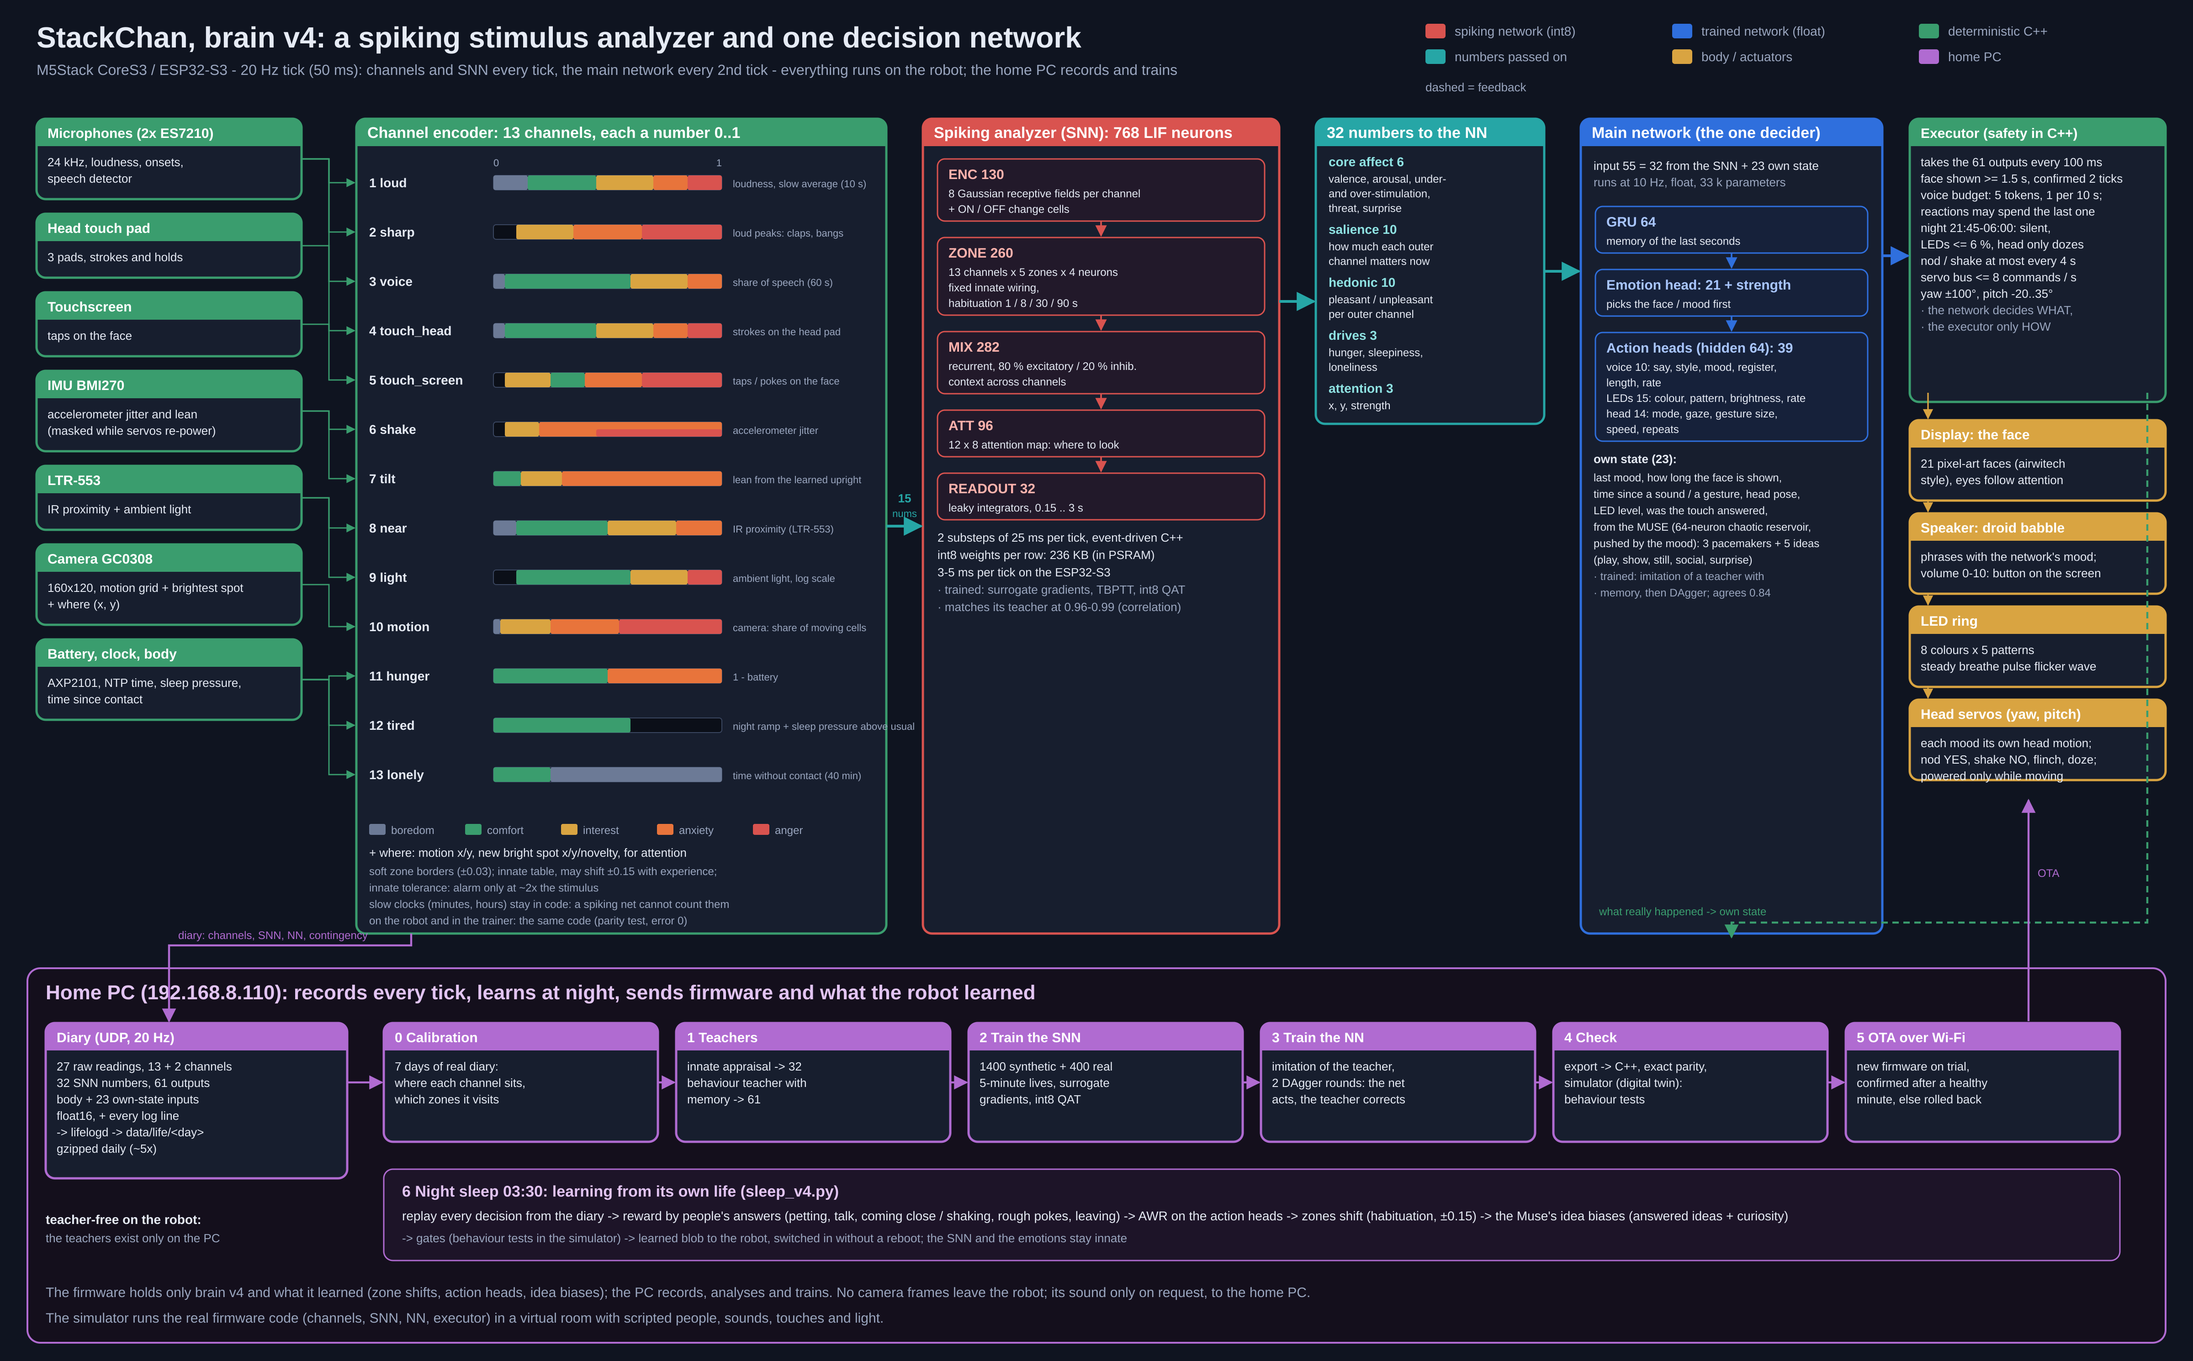
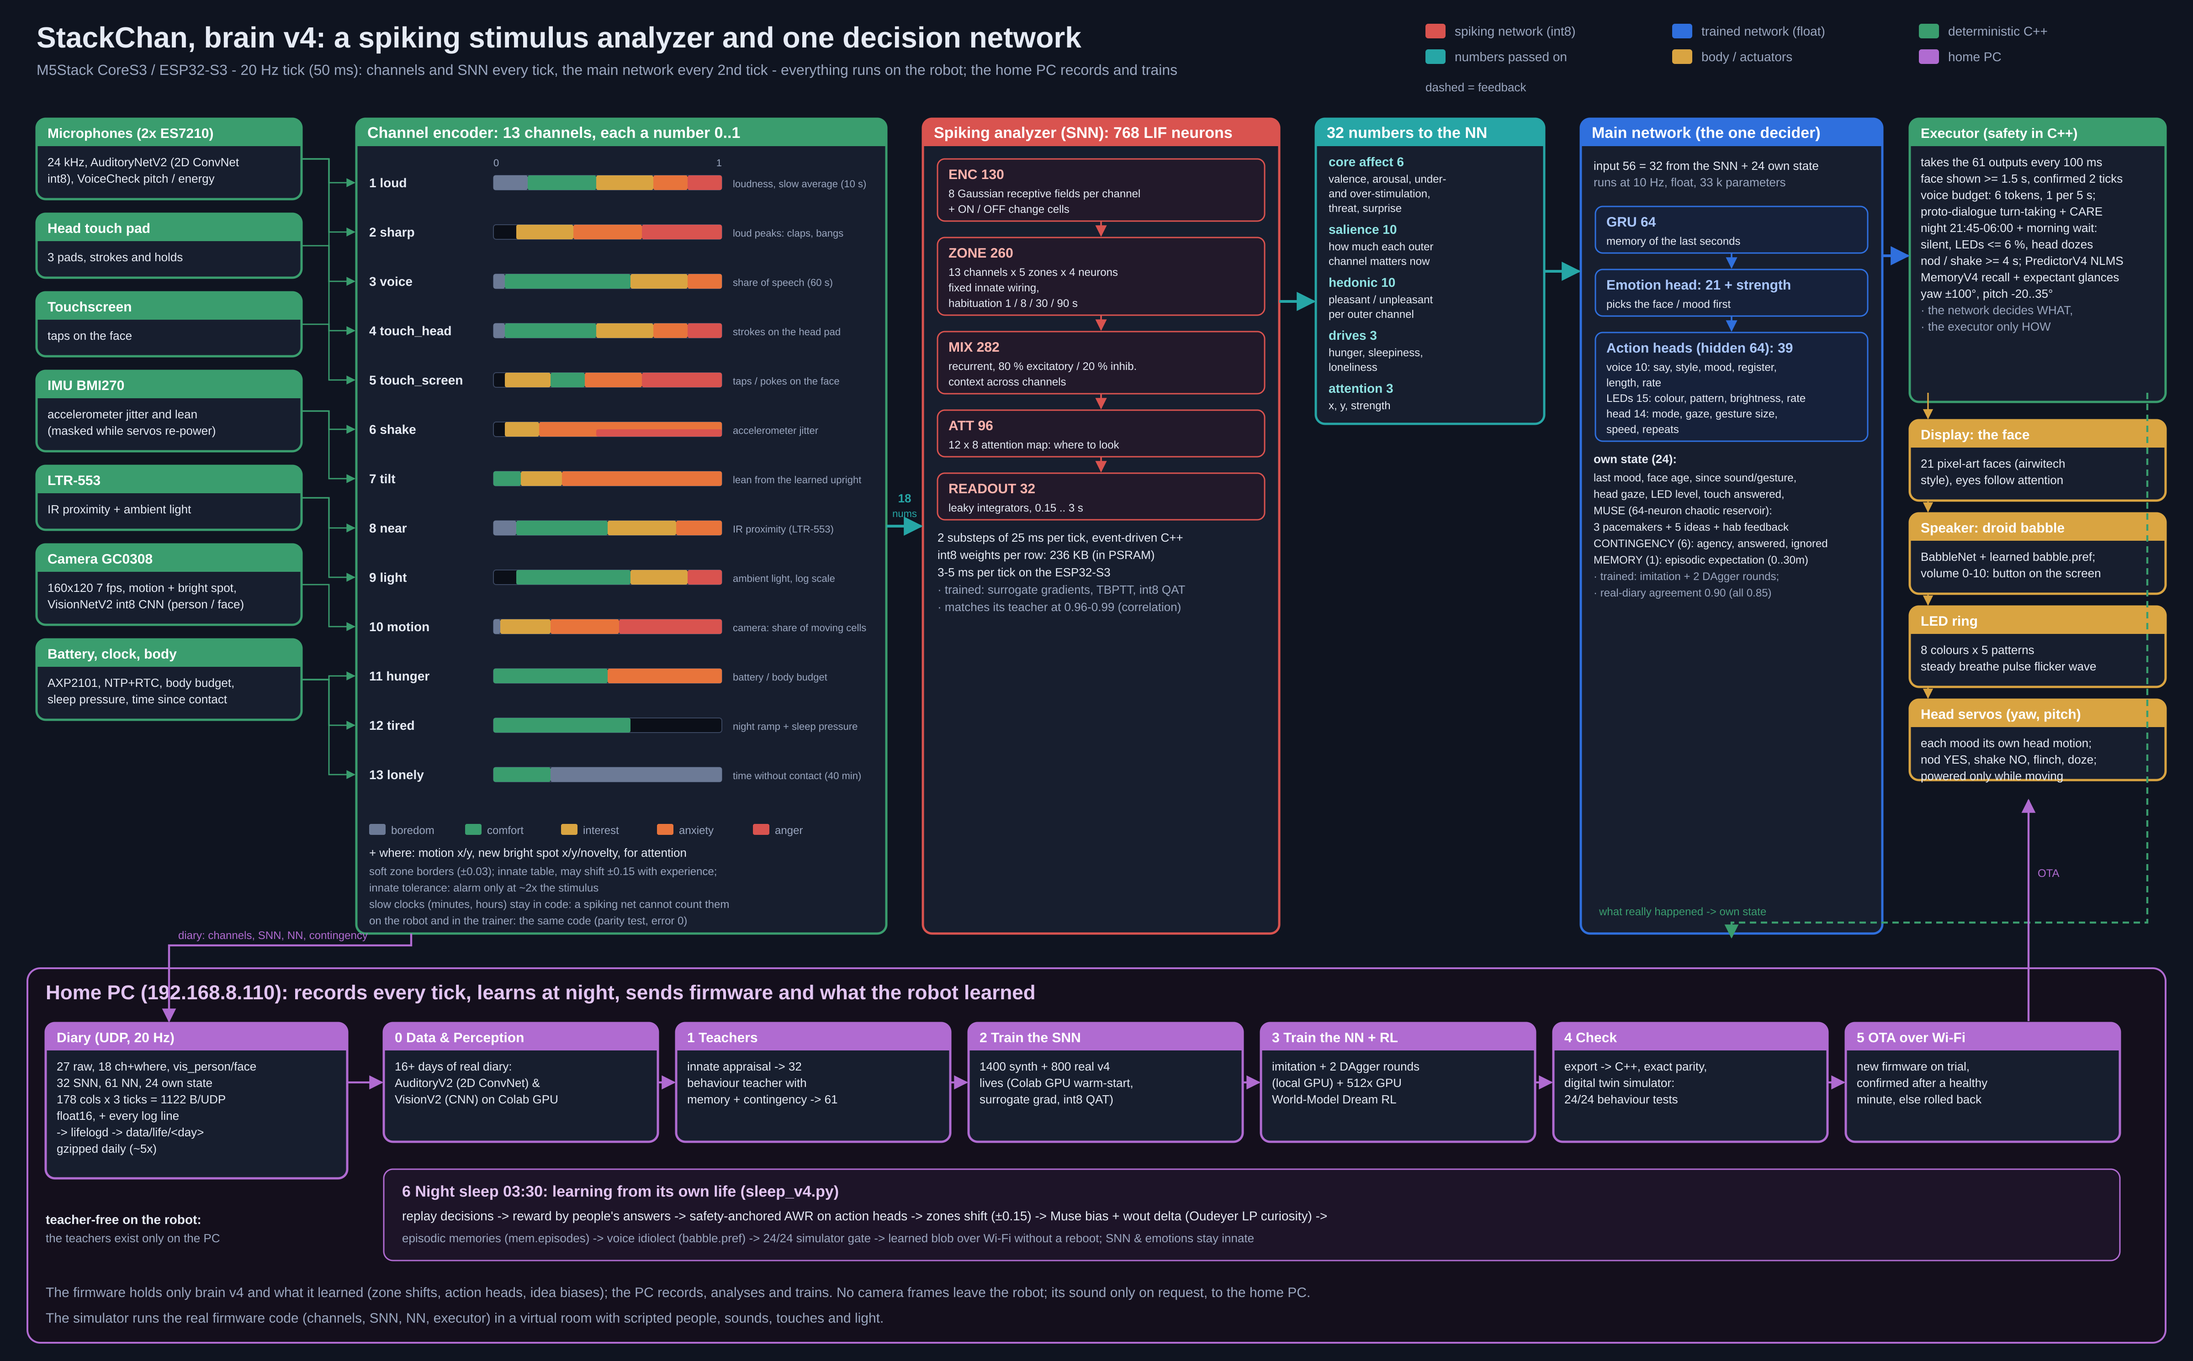
Brain v4.3 maps: redraw BRAIN_V4_MAP & NETWORKS_V4 SVGs and 2x PNG renders

diff --git a/stackchan-v4/tools/v4_map.py b/stackchan-v4/tools/v4_map.py
@@ -88,7 +88,7 @@ NOTES = {
     "touch_screen": "taps / pokes on the face", "shake": "accelerometer jitter",
     "tilt": "lean from the learned upright", "near": "IR proximity (LTR-553)",
     "light": "ambient light, log scale", "motion": "camera: share of moving cells",
-    "hunger": "1 - battery", "tired": "night ramp + sleep pressure above usual", "lonely": "time without contact (40 min)",
+    "hunger": "battery / body budget", "tired": "night ramp + sleep pressure", "lonely": "time without contact (40 min)",
 }
 
 N_ENC, N_ZONE, N_MIX, N_ATT = len(S.CHANNELS) * 10, len(S.CHANNELS) * len(S.ZONES) * 4, 282, 96
@@ -117,13 +117,13 @@ def brain_map():
     s.text(1560, 100, "dashed = feedback", 13, C["dim"])
 
     # ---------------------------------------------------------------- sensors
-    sens = [("Microphones (2x ES7210)", ["24 kHz, loudness, onsets,", "speech detector"], ["loud", "sharp", "voice"]),
+    sens = [("Microphones (2x ES7210)", ["24 kHz, AuditoryNetV2 (2D ConvNet", "int8), VoiceCheck pitch / energy"], ["loud", "sharp", "voice"]),
             ("Head touch pad", ["3 pads, strokes and holds"], ["touch_head"]),
             ("Touchscreen", ["taps on the face"], ["touch_screen"]),
             ("IMU BMI270", ["accelerometer jitter and lean", "(masked while servos re-power)"], ["shake", "tilt"]),
             ("LTR-553", ["IR proximity + ambient light"], ["near", "light"]),
-            ("Camera GC0308", ["160x120, motion grid + brightest spot", "+ where (x, y)"], ["motion"]),
-            ("Battery, clock, body", ["AXP2101, NTP time, sleep pressure,", "time since contact"], ["hunger", "tired", "lonely"])]
+            ("Camera GC0308", ["160x120 7 fps, motion + bright spot,", "VisionNetV2 int8 CNN (person / face)"], ["motion"]),
+            ("Battery, clock, body", ["AXP2101, NTP+RTC, body budget,", "sleep pressure, time since contact"], ["hunger", "tired", "lonely"])]
     y, ys = 130, {}
     for title, lines, chans in sens:
         hh = 52 + 18 * len(lines)
@@ -184,7 +184,7 @@ def brain_map():
                             "· matches its teacher at 0.96-0.99 (correlation)"]):
         s.text(sx + 16, yy + 6 + k * 19, ln, 13, C["dim"] if ln.startswith("·") else C["text"])
     s.arrow([(ex + ew, ey + eh / 2), (sx - 2, sy + sh / 2)], C["bus"], width=3)
-    s.text(ex + ew + 20, ey + eh / 2 - 26, "15", 13, C["bus"], "bold", "middle")
+    s.text(ex + ew + 20, ey + eh / 2 - 26, f"{len(S.SNN_IN)}", 13, C["bus"], "bold", "middle")
     s.text(ex + ew + 20, ey + eh / 2 - 10, "nums", 11, C["bus"], anchor="middle")
 
     # ---------------------------------------------------------------- 32 numbers
@@ -228,24 +228,24 @@ def brain_map():
         prev = yy + hh
         yy += hh + 18
     s.text(nx + 14, yy + 6, f"own state ({len(S.PREV)}):", 13, weight="bold")
-    for k, ln in enumerate(["last mood, how long the face is shown,", "time since a sound / a gesture, head pose,",
-                            "LED level, was the touch answered,", "from the MUSE (64-neuron chaotic reservoir,",
-                            "pushed by the mood): 3 pacemakers + 5 ideas",
-                            "(play, show, still, social, surprise)",
-                            "· trained: imitation of a teacher with", "· memory, then DAgger; agrees 0.84"]):
+    for k, ln in enumerate(["last mood, face age, since sound/gesture,", "head gaze, LED level, touch answered,",
+                            "MUSE (64-neuron chaotic reservoir):", "  3 pacemakers + 5 ideas + hab feedback",
+                            "CONTINGENCY (6): agency, answered, ignored",
+                            "MEMORY (1): episodic expectation (0..30m)",
+                            "· trained: imitation + 2 DAgger rounds;", "· real-diary agreement 0.90 (all 0.85)"]):
         s.text(nx + 14, yy + 26 + k * 18, ln, 12, C["dim"] if ln.startswith("·") else C["text"])
     s.arrow([(bx + bw, by + bh / 2), (nx - 2, by + bh / 2)], C["bus"], width=3)
 
     # ---------------------------------------------------------------- executor + body
     xx, xw = 2090, 280
     s.box(xx, 130, xw, 310, C["det"], "Executor (safety in C++)",
-          [f"takes the {len(S.NN_OUT)} outputs every 100 ms", "face shown >= 1.5 s, confirmed 2 ticks", "voice budget: 5 tokens, 1 per 10 s;",
-           "  reactions may spend the last one", "night 21:45-06:00: silent,", "  LEDs <= 6 %, head only dozes",
-           "nod / shake at most every 4 s", "servo bus <= 8 commands / s", "yaw ±100°, pitch -20..35°",
+          [f"takes the {len(S.NN_OUT)} outputs every 100 ms", "face shown >= 1.5 s, confirmed 2 ticks", "voice budget: 6 tokens, 1 per 5 s;",
+           "  proto-dialogue turn-taking + CARE", "night 21:45-06:00 + morning wait:", "  silent, LEDs <= 6 %, head dozes",
+           "nod / shake >= 4 s; PredictorV4 NLMS", "MemoryV4 recall + expectant glances", "yaw ±100°, pitch -20..35°",
            "· the network decides WHAT,", "· the executor only HOW"], tsize=15)
     s.arrow([(nx + nw, ny + 150), (xx - 2, ny + 150)], C["nn"], width=3)
     body = [("Display: the face", [f"{N_EMO} pixel-art faces (airwitech", "style), eyes follow attention"]),
-            ("Speaker: droid babble", ["phrases with the network's mood;", "volume 0-10: button on the screen"]),
+            ("Speaker: droid babble", ["BabbleNet + learned babble.pref;", "volume 0-10: button on the screen"]),
             ("LED ring", [f"{len(S.LED_COLORS)} colours x {len(S.LED_PATTERNS)} patterns", "steady breathe pulse flicker wave"]),
             ("Head servos (yaw, pitch)", ["each mood its own head motion;", "nod YES, shake NO, flinch, doze;", "powered only while moving"])]
     yy = 460
@@ -261,14 +261,14 @@ def brain_map():
     s.rect(30, py0, 2340, 410, "#140f1c", C["pc"], rx=14, sw=2)
     s.text(50, py0 + 34, "Home PC (192.168.8.110): records every tick, learns at night, sends firmware and what the robot learned", 22, "#e2c4f2", "bold")
     s.box(50, py0 + 60, 330, 170, C["pc"], "Diary (UDP, 20 Hz)",
-          [f"{len(S.RAW)} raw readings, 13 + 2 channels", f"{len(S.SNN_OUT)} SNN numbers, {len(S.NN_OUT)} outputs",
-           f"body + {len(S.PREV)} own-state inputs", "float16, + every log line", "-> lifelogd -> data/life/<day>",
+          [f"{len(S.RAW)} raw, {len(S.SNN_IN)} ch+where, vis_person/face", f"{len(S.SNN_OUT)} SNN, {len(S.NN_OUT)} NN, {len(S.PREV)} own state",
+           f"{len(S.DIARY)} cols x {S.DATAGRAM_TICKS} ticks = {S.datagram_bytes()} B/UDP", "float16, + every log line", "-> lifelogd -> data/life/<day>",
            "gzipped daily (~5x)"], tsize=15)
-    steps = [("0  Calibration", ["7 days of real diary:", "where each channel sits,", "which zones it visits"]),
-             ("1  Teachers", ["innate appraisal -> 32", "behaviour teacher with", "memory -> 61"]),
-             ("2  Train the SNN", ["1400 synthetic + 400 real", "5-minute lives, surrogate", "gradients, int8 QAT"]),
-             ("3  Train the NN", ["imitation of the teacher,", "2 DAgger rounds: the net", "acts, the teacher corrects"]),
-             ("4  Check", ["export -> C++, exact parity,", "simulator (digital twin):", "behaviour tests"]),
+    steps = [("0  Data & Perception", ["16+ days of real diary:", "AuditoryV2 (2D ConvNet) &", "VisionV2 (CNN) on Colab GPU"]),
+             ("1  Teachers", ["innate appraisal -> 32", "behaviour teacher with", "memory + contingency -> 61"]),
+             ("2  Train the SNN", ["1400 synth + 800 real v4", "lives (Colab GPU warm-start,", "surrogate grad, int8 QAT)"]),
+             ("3  Train the NN + RL", ["imitation + 2 DAgger rounds", "(local GPU) + 512x GPU", "World-Model Dream RL"]),
+             ("4  Check", ["export -> C++, exact parity,", "digital twin simulator:", "24/24 behaviour tests"]),
              ("5  OTA over Wi-Fi", ["new firmware on trial,", "confirmed after a healthy", "minute, else rolled back"])]
     x = 420
     for i, (title, lines) in enumerate(steps):
@@ -279,11 +279,10 @@ def brain_map():
     s.arrow([(380, py0 + 125), (418, py0 + 125)], C["pc"])
     s.rect(420, py0 + 220, 1900, 100, "#1d1428", C["pc"], rx=10, sw=1.5)
     s.text(440, py0 + 250, "6  Night sleep 03:30: learning from its own life (sleep_v4.py)", 17, "#e2c4f2", "bold")
-    s.text(440, py0 + 276, "replay every decision from the diary -> reward by people's answers (petting, talk, coming close / "
-                           "shaking, rough pokes, leaving) -> AWR on the action heads -> zones shift (habituation, "
-                           f"±{S.SHIFT_MAX}) -> the Muse's idea biases (answered ideas + curiosity)", 14)
-    s.text(440, py0 + 300, "-> gates (behaviour tests in the simulator) -> learned blob to the robot, switched in without a "
-                           "reboot; the SNN and the emotions stay innate", 13, C["dim"])
+    s.text(440, py0 + 276, "replay decisions -> reward by people's answers -> safety-anchored AWR on action heads -> zones shift "
+                           f"(±{S.SHIFT_MAX}) -> Muse bias + wout delta (Oudeyer LP curiosity) ->", 14)
+    s.text(440, py0 + 300, "episodic memories (mem.episodes) -> voice idiolect (babble.pref) -> 24/24 simulator gate -> "
+                           "learned blob over Wi-Fi without a reboot; SNN & emotions stay innate", 13, C["dim"])
     s.text(50, py0 + 280, "teacher-free on the robot:", 14, weight="bold")
     s.text(50, py0 + 300, "the teachers exist only on the PC", 13, C["dim"])
     s.text(50, py0 + 360, "The firmware holds only brain v4 and what it learned (zone shifts, action heads, idea biases); the PC records, "
@@ -376,8 +375,17 @@ def networks():
     # ---- 3. the main network
     y1 = 730
     s.box(40, y1, 2320, 730, C["nn"], f"Main network: one decider, {len(S.NN_OUT)} outputs")
-    blocks = [(60, f"input {NIN}", [f"{len(S.SNN_OUT)} SNN numbers"] + [f"+ {p}" for p in S.PREV]),
-              (380, f"GRU {H}", ["gated recurrent unit:", "remembers the last", "seconds"]),
+    # Draw input box in two columns so all 24 PREV inputs fit cleanly above the training panel
+    half = (len(S.PREV) + 1) // 2
+    in_h = 74 + 17 * half
+    s.rect(60, y1 + 50, 290, in_h, "#16213a", C["nn"], rx=8)
+    s.text(72, y1 + 74, f"input {NIN}", 15, "#a9c6ff", "bold")
+    s.text(72, y1 + 96, f"{len(S.SNN_OUT)} SNN numbers + {len(S.PREV)} own state:", 12)
+    for k in range(half):
+        s.text(72, y1 + 116 + k * 17, f"+ {S.PREV[k]}", 11, C["dim"])
+        if k + half < len(S.PREV):
+            s.text(208, y1 + 116 + k * 17, f"+ {S.PREV[k + half]}", 11, C["dim"])
+    blocks = [(380, f"GRU {H}", ["gated recurrent unit:", "remembers the last", "seconds"]),
               (660, f"emotion head", [f"{N_EMO} emotions (softmax)", "+ strength"]),
               (960, "action hidden 64", ["sees the GRU state", "and the chosen", "emotion"])]
     for bx, title, lines in blocks:
@@ -386,21 +394,21 @@ def networks():
         s.text(bx + 12, y1 + 74, title, 15, "#a9c6ff", "bold")
         for k, ln in enumerate(lines):
             s.text(bx + 12, y1 + 96 + k * 17, ln, 12)
-    s.arrow([(320, y1 + 100), (378, y1 + 100)], C["nn"])
+    s.arrow([(350, y1 + 100), (378, y1 + 100)], C["nn"])
     s.arrow([(640, y1 + 100), (658, y1 + 100)], C["nn"])
     s.arrow([(920, y1 + 100), (958, y1 + 100)], C["nn"])
     s.arrow([(640, y1 + 150), (940, y1 + 150), (958, y1 + 150)], C["nn"], dash=True)
     s.text(380, y1 + 180, f"{NN_PARAMS} float parameters, 10 Hz", 12, C["dim"])
 
     # the Muse: where the pace_* and idea_* inputs come from
-    s.rect(380, y1 + 210, 260, 200, "#1d1a30", C["snn"], rx=8)
+    s.rect(380, y1 + 210, 260, 215, "#1d1a30", C["snn"], rx=8)
     s.text(392, y1 + 234, "the Muse (muse_v4.cpp)", 15, "#e2c4f2", "bold")
     for k, ln in enumerate(["64 leaky tanh neurons, a chaotic", "reservoir (0.5 s / 3 s / 60 s groups),",
                             "pushed by 8 of the SNN's moods", "-> 3 pacemakers + 5 ideas:",
-                            "play, show, still, social, surprise", "bored of its own ideas (90 s);",
-                            "the night learns one bias per idea", "(answered ideas + curiosity)"]):
+                            "play, show, still, social, surprise", "habituation (90 s) + feedback (0.12);",
+                            "night learns bias + wout delta (5x64)", "(answered ideas + Oudeyer LP)"]):
         s.text(392, y1 + 256 + k * 18, ln, 12, C["dim"] if k >= 5 else C["text"])
-    s.arrow([(378, y1 + 310), (322, y1 + 310)], C["snn"])
+    s.arrow([(378, y1 + 310), (352, y1 + 310)], C["snn"])
 
     # emotions grid
     s.text(660, y1 + 240, "emotions", 16, "#a9c6ff", "bold")
@@ -425,7 +433,7 @@ def networks():
     gy = y1 + 240
     s.text(1280, gy, "gesture library (the executor plays it on the network's wish)", 16, C["out"], "bold")
     gest = [("nod = YES", "pitch down / up, 5-12°, x1-3"), ("shake = NO", "yaw left / right, 5-14°, x1-3"),
-            ("flinch", "head jerks back +12°, 0.6 s"), ("look / scan", "gaze x 60° yaw, 30° pitch"),
+            ("flinch", "head jerks back +6°, 60°/s"), ("look / scan", "gaze x 60° yaw, 30° pitch"),
             ("look down / up", "-15° / +22° pitch"), ("doze", "head sinks -18°, slow")]
     for i, (a, b) in enumerate(gest):
         s.text(1280 + (i % 2) * 520, gy + 30 + (i // 2) * 24, a, 13, weight="bold")
@@ -434,24 +442,23 @@ def networks():
     # training
     ty = y1 + 450
     s.rect(60, ty, 2280, 270, "#121a2c", C["line"], rx=10)
-    s.text(80, ty + 32, "How it was taught", 18, weight="bold")
+    s.text(80, ty + 32, "How it was taught (v4.3: Local RTX A3000 + Google Colab GPU)", 18, weight="bold")
     lines = [
-        "SNN: an innate appraisal (teacher_snn.py) turns channel histories into the 32 numbers; the SNN learns to reproduce "
-        "them from its own spikes",
-        "      (surrogate gradients, TBPTT; the last 30 % of the epochs with int8 fake quantisation, as on the robot).",
-        "Data: 1400 synthetic 5-minute lives (quiet nights, play, being alone, rough handling) + 400 slices of the real diary.",
-        "NN: a behaviour teacher with memory (teacher_nn.py) acts on the SNN's numbers and the network imitates it; then "
-        "DAgger: the network acts, its own choices",
-        "      feed back into its inputs and the teacher labels the states it really visits. Emotion agreement acting "
-        "alone: 0.84 (real lives 0.82), three DAgger rounds since the Muse.",
-        "Checks: C++ on the robot gives the same numbers as PyTorch (parity tests); simulator behaviour tests: every touch "
-        "answered, petting is not annoying,",
-        "      pokes are, nights are silent, play shows many faces, a lonely robot talks, shakes and claps frighten.",
-        "Life (stage 6): every night the action heads are fine-tuned on the robot's real days with AWR, rewarded by how people "
-        "answered; the zones of the environment channels shift by experience; the Muse's idea biases follow what was answered.",
+        "Perception (Colab GPU): AuditoryNetV2 (21 KB int8 2D ConvNet over 6x16 mel-time grid, parity 2.2e-6) and "
+        "VisionNetV2 (23.8 KB int8 CNN on Core 1 @ 7 fps, parity 3.0e-7).",
+        "SNN (Colab GPU): innate appraisal (teacher_snn.py) across 1400 synthetic + 800 event-biased real v4 5-minute "
+        "lives (surrogate gradients, TBPTT, int8 QAT).",
+        "NN (Local RTX A3000): imitation of teacher_nn.py + 2 DAgger rounds with AnswerWorld contingency and episodic "
+        "anticipation; real-diary emotion agreement 0.90 (all 0.85).",
+        "GPU World-Model Sim & Dream RL (Colab GPU): 3-model stochastic ensemble trained on 147 h of real life simulates "
+        "512 parallel virtual lives at 11,117x real-time (KL-anchored AWR).",
+        "Checks: exact C++ / PyTorch parity for every network (SNN, NN, Muse, AuditoryV2, VisionV2, Contingency, VoiceCheck); "
+        "all 24/24 scenarios pass in the C++ digital twin simulator.",
+        "Life (stage 6, 03:30 nightly): safety-anchored AWR on action heads, zone shifts, Muse bias + wout delta (Oudeyer LP), "
+        "episodic memories, and BabbleNet voice idiolect (babble.pref).",
     ]
     for k, ln in enumerate(lines):
-        s.text(80, ty + 64 + k * 26, ln, 14)
+        s.text(80, ty + 66 + k * 31, ln, 14)
     s.save("NETWORKS_V4.svg")
 
 
